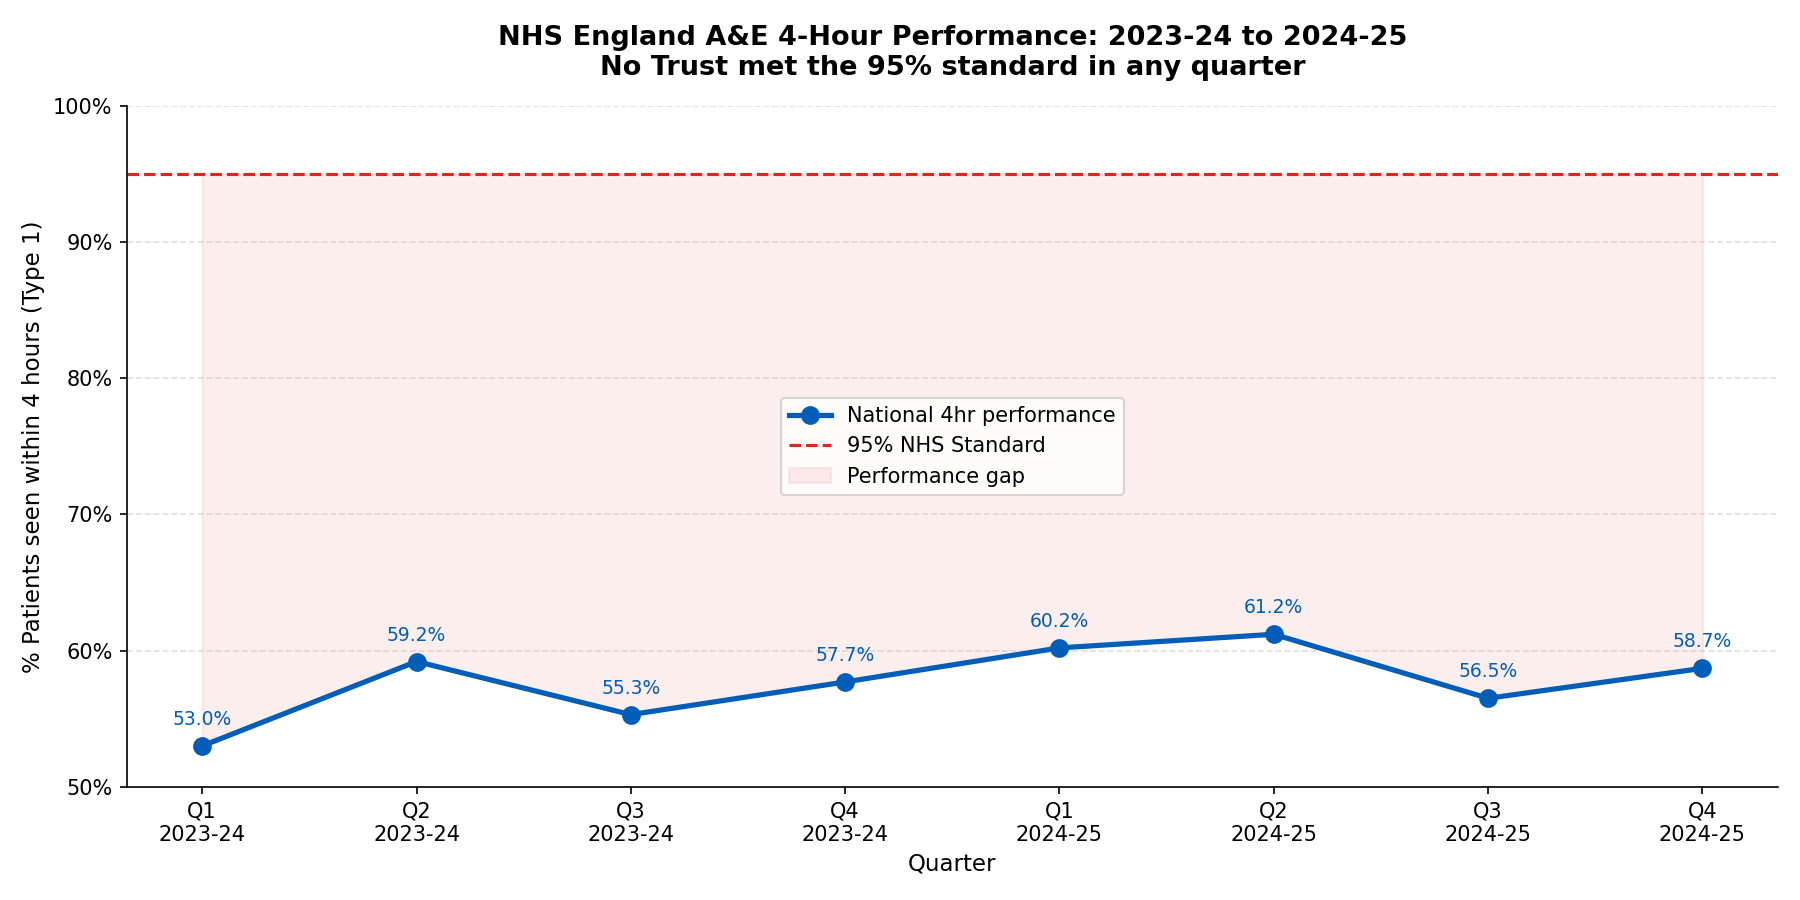
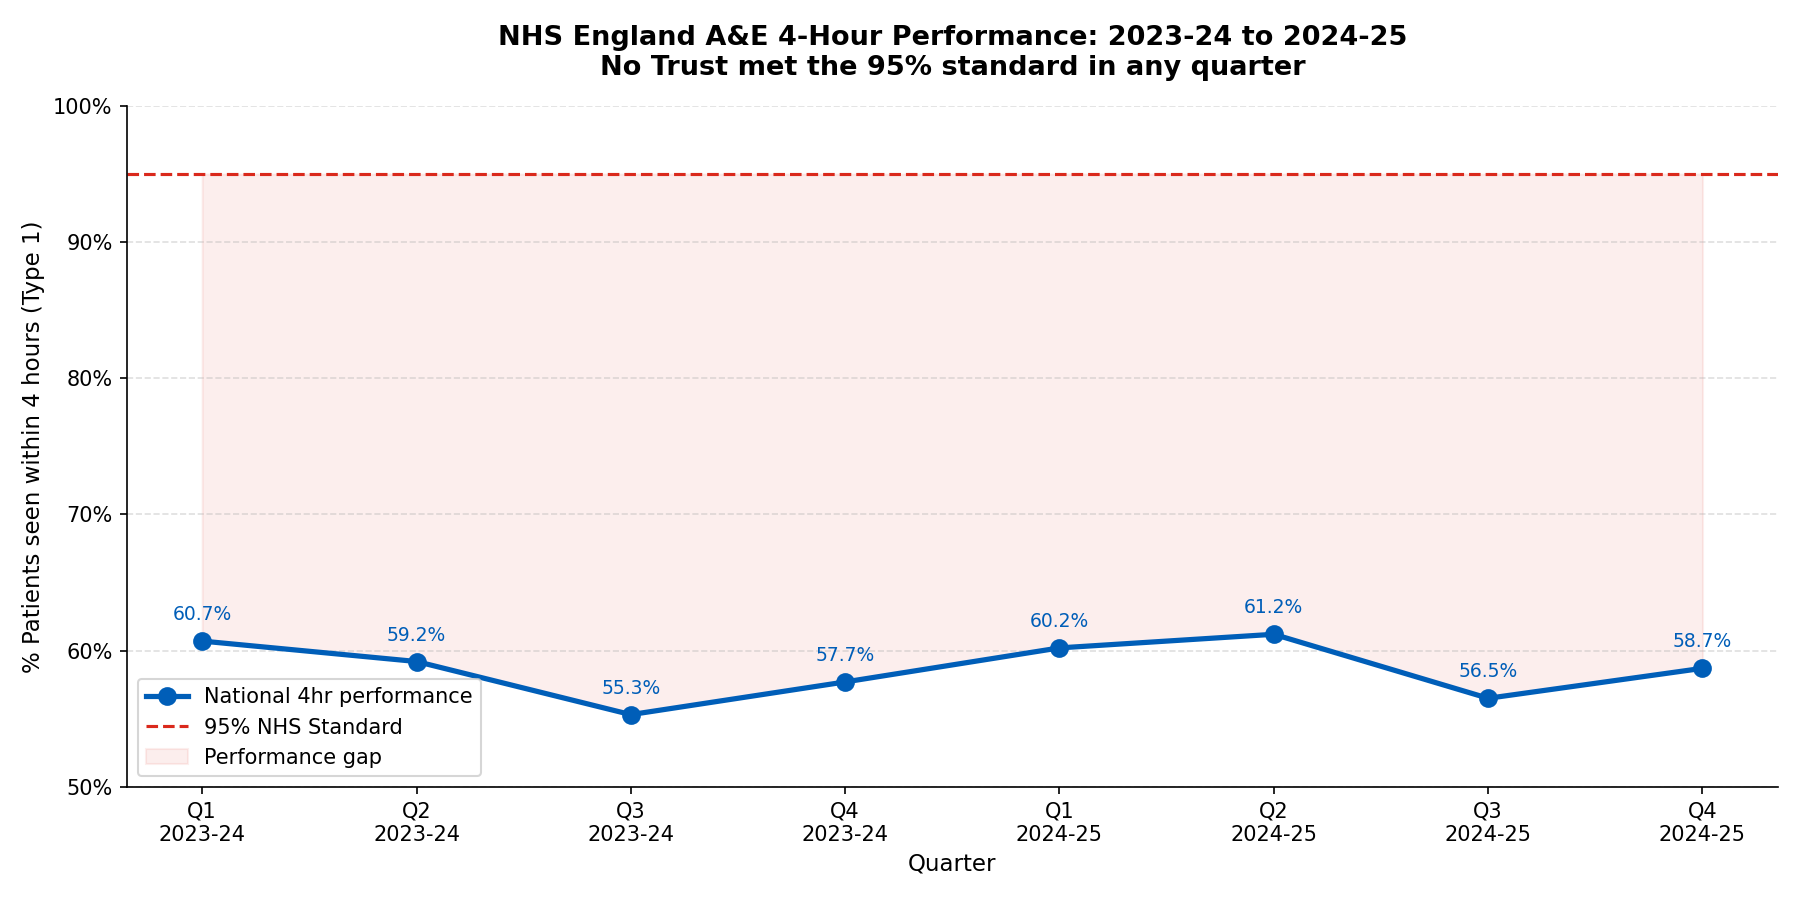
Update code comments and regenerate charts with validated data

Changed region(s): [[0.0622, 0.7156, 0.28, 0.8711], [0.4356, 0.4356, 0.6222, 0.56], [0.0933, 0.6533, 0.1244, 0.7156]]

diff --git a/python/analyse.py b/python/analyse.py
@@ -6,20 +6,8 @@ from sqlalchemy import create_engine
 import urllib
 import os
 
-"""
-================================================================
-Project : NHS A&E Performance Analysis (2023-25)
-File    : load_data.py
-Author  : Vinay Reddy Thudi
-Date    : May 2026
-
-Purpose : Loads 8 quarterly NHS England A&E XLS files into
-          SQL Server. Auto-detects header rows, standardises
-          column names, and handles file format variations.
-
-Output  : dbo.ae_raw (SQL Server - nhs_ae_analysis)
-================================================================
-"""
+# pulls from the same ae_unified table as Power BI
+# so the numbers should match exactly
 
 OUTPUT_FOLDER = r"C:\Users\zainv\OneDrive\Desktop\NHS Datasets\nhs-ae-performance-analysis\python\charts"
 os.makedirs(OUTPUT_FOLDER, exist_ok=True)
@@ -32,15 +20,8 @@ params = urllib.parse.quote_plus(
 )
 engine = create_engine(f"mssql+pyodbc:///?odbc_connect={params}")
 
-# -------------------------------------------------------
-# Pull unified data from SQL
-# -------------------------------------------------------
 df = pd.read_sql("SELECT * FROM dbo.ae_unified", engine)
 
-print(f"Rows loaded: {len(df)}")
-print(f"Columns: {list(df.columns)}")
-
-# Convert numeric columns - must happen before any calculations
 numeric_cols = [
     "type1_attendances", "type1_over_4hr", "type1_within_4hr",
     "type2_attendances", "type3_attendances", "total_attendances",
@@ -51,33 +32,13 @@ for col in numeric_cols:
     if col in df.columns:
         df[col] = pd.to_numeric(df[col], errors="coerce")
 
-print("Numeric conversion complete.")
-
-# -------------------------------------------------------
-# Calculate 4hr performance where not already present
-# -------------------------------------------------------
 t1 = pd.to_numeric(df["type1_attendances"], errors="coerce")
 t1_over = pd.to_numeric(df["type1_over_4hr"], errors="coerce")
-
-print(f"t1 dtype: {t1.dtype}")
-print(f"t1_over dtype: {t1_over.dtype}")
-print(f"t1 sample: {t1.head()}")
-print(f"t1_over sample: {t1_over.head()}")
-
-diff = t1 - t1_over
-print(f"diff dtype: {diff.dtype}")
-print(f"diff sample: {diff.head()}")
-
-result = diff / t1.replace(0, float('nan')) * 100
+result = (t1 - t1_over) / t1.replace(0, float("nan")) * 100
 result = pd.to_numeric(result, errors="coerce")
-print(f"result dtype: {result.dtype}")
-
 df["pct_within_4hr_calc"] = result.round(1)
 df["performance"] = df["pct_within_4hr_calc"]
 
-# -------------------------------------------------------
-# Sort order for quarters
-# -------------------------------------------------------
 quarter_order = {
     ("2023-24", "Q1"): 1,
     ("2023-24", "Q2"): 2,
@@ -94,9 +55,6 @@ df["sort_order"] = df.apply(
     axis=1
 )
 
-df["quarter_display"] = df["financial_year"] + " " + df["quarter_label"]
-
-# Clean display labels
 label_map = {
     "2023-24 Q1": "Q1\n2023-24",
     "2023-24 Q2": "Q2\n2023-24",
@@ -107,22 +65,30 @@ label_map = {
     "2024-25 Q3 2024-25": "Q3\n2024-25",
     "2024-25 Q4 2024-25": "Q4\n2024-25",
 }
-df["quarter_display"] = df["quarter_display"].map(label_map)
+df["quarter_display"] = (df["financial_year"] + " " + df["quarter_label"]).map(label_map)
 
 # -------------------------------------------------------
-# Chart 1: National 4hr performance trend over 8 quarters
+# Chart 1: National 4hr performance trend
 # -------------------------------------------------------
-print("\nBuilding Chart 1 - National trend...")
+print("Building Chart 1 - National trend...")
 
 quarterly = (
-    df[df["type1_attendances"] > 0]
+    df[
+        (df["type1_attendances"] > 0) &
+        (df["type1_over_4hr"].notna()) &
+        (df["sort_order"] != 99)
+    ]
     .groupby(["sort_order", "quarter_display"])
-    .apply(lambda g: pd.Series({
-        "national_pct": (
-            (g["type1_attendances"] - g["type1_over_4hr"]).sum()
-            / g["type1_attendances"].sum() * 100
-        ).round(1)
-    }))
+    .apply(
+        lambda g: pd.Series({
+            "national_pct": round(
+                (g["type1_attendances"] - g["type1_over_4hr"]).sum()
+                / g["type1_attendances"].sum() * 100,
+                1
+            )
+        }),
+        include_groups=False
+    )
     .reset_index()
     .sort_values("sort_order")
     .dropna()
@@ -140,11 +106,11 @@ ax.plot(
     label="National 4hr performance"
 )
 
-# 95% target line
-ax.axhline(y=95, color="#DA291C", linewidth=1.5,
-           linestyle="--", label="95% NHS Standard")
+ax.axhline(
+    y=95, color="#DA291C", linewidth=1.5,
+    linestyle="--", label="95% NHS Standard"
+)
 
-# Shade the gap
 ax.fill_between(
     quarterly["quarter_display"],
     quarterly["national_pct"],
@@ -184,47 +150,73 @@ plt.close()
 print("  Saved: 01_national_trend.png")
 
 # -------------------------------------------------------
-# Chart 2: Regional average performance comparison
+# Chart 2: Regional performance - deduplicated and clean
 # -------------------------------------------------------
 print("Building Chart 2 - Regional comparison...")
 
-# Standardise region names - quarterly and monthly CSVs store them differently
-df["region_clean"] = (
-    df["region"]
+# filter to one row per Trust per quarter - monthly and quarterly
+# overlap for Q1-Q2 2024-25 so we only use quarterly XLS for those
+
+regional_df = df[
+    (df["type1_attendances"] > 0) &
+    (df["type1_over_4hr"].notna()) &
+    (df["is_primary_source"] == 1) &
+    (df["region"].notna()) &
+    (~df["region"].str.upper().str.contains("TOTAL", na=False))
+].copy()
+
+# Clean region names to match Power BI
+regional_df["region_clean"] = (
+    regional_df["region"]
     .str.strip()
-    .str.upper()
-    .str.replace("NHS ENGLAND ", "", regex=False)
-    .str.replace("NHS ", "", regex=False)
-    .str.title()
-    .str.strip()
+    .str.replace(r"\s+", " ", regex=True)
 )
 
+# some rows have region variants like "NHS ENGLAND MIDLANDS" in caps
+# from the monthly CSV - just use the 7 clean names from the quarterly files
+
+valid_regions = [
+    "NHS England East Of England",
+    "NHS England London",
+    "NHS England Midlands",
+    "NHS England North East And Yorkshire",
+    "NHS England North West",
+    "NHS England South East",
+    "NHS England South West",
+]
+
+regional_df = regional_df[regional_df["region_clean"].isin(valid_regions)]
+
 regional = (
-    df[
-        (df["type1_attendances"] > 0) &
-        (df["type1_over_4hr"].notna()) &
-        (df["region_clean"].notna()) &
-        (~df["region_clean"].isin(["Total", "Nan", ""]))
-    ]
+    regional_df
     .groupby("region_clean")
-    .apply(lambda g: pd.Series({
-        "avg_pct": (
-            (g["type1_attendances"] - g["type1_over_4hr"]).sum()
-            / g["type1_attendances"].sum() * 100
-        ).round(1)
-    }))
+    .apply(
+        lambda g: pd.Series({
+            "avg_pct": round(
+                (g["type1_attendances"] - g["type1_over_4hr"]).sum()
+                / g["type1_attendances"].sum() * 100,
+                1
+            )
+        }),
+        include_groups=False
+    )
     .reset_index()
     .sort_values("avg_pct", ascending=True)
     .dropna()
 )
 
-# Shorten region labels
-regional["region_short"] = regional["region_clean"]
+regional["region_short"] = (
+    regional["region_clean"]
+    .str.replace("NHS England ", "", regex=False)
+    .str.strip()
+)
 
 fig, ax = plt.subplots(figsize=(11, 6))
 
-colors = ["#DA291C" if v < 60 else "#FFB81C" if v < 65 else "#009639"
-          for v in regional["avg_pct"]]
+colors = [
+    "#DA291C" if v < 58 else "#FFB81C" if v < 62 else "#009639"
+    for v in regional["avg_pct"]
+]
 
 bars = ax.barh(
     regional["region_short"],
@@ -234,12 +226,15 @@ bars = ax.barh(
     height=0.6
 )
 
-ax.axvline(x=95, color="#DA291C", linewidth=1.5,
-           linestyle="--", label="95% NHS Standard", zorder=5)
+ax.axvline(
+    x=95, color="#DA291C", linewidth=1.5,
+    linestyle="--", label="95% NHS Standard", zorder=5
+)
 
 for bar, val in zip(bars, regional["avg_pct"]):
     ax.text(
-        val + 0.3, bar.get_y() + bar.get_height() / 2,
+        val + 0.3,
+        bar.get_y() + bar.get_height() / 2,
         f"{val:.1f}%",
         va="center", ha="left", fontsize=10
     )
@@ -262,20 +257,22 @@ plt.close()
 print("  Saved: 02_regional_comparison.png")
 
 # -------------------------------------------------------
-# Chart 3: 12-hour DTA waits trend - national total
+# sticking to quarterly XLS here so all 6 bars represent the same
+# data collection method - mixing in monthly CSV would distort the trend
 # -------------------------------------------------------
 print("Building Chart 3 - 12hr DTA trend...")
 
 dta_trend = (
-    df[df["dta_12hr_plus"].notna()]
+    df[
+        (df["dta_12hr_plus"].notna()) &
+        (df["data_source"] == "quarterly_xls")
+    ]
     .groupby(["sort_order", "quarter_display"])
     .agg(total_12hr=("dta_12hr_plus", "sum"))
     .reset_index()
     .sort_values("sort_order")
+    .dropna()
 )
-
-# Only use first 6 quarters (quarterly XLS - comparable data)
-dta_trend = dta_trend[dta_trend["sort_order"] <= 6]
 
 fig, ax = plt.subplots(figsize=(12, 6))
 
@@ -292,7 +289,8 @@ for _, row in dta_trend.iterrows():
         row["quarter_display"],
         row["total_12hr"] + 1000,
         f"{int(row['total_12hr']):,}",
-        ha="center", va="bottom", fontsize=10, color="#005EB8"
+        ha="center", va="bottom",
+        fontsize=10, color="#005EB8"
     )
 
 ax.set_title(
@@ -314,4 +312,4 @@ plt.close()
 print("  Saved: 03_dta_12hr_trend.png")
 
 print("\nAll charts saved to:", OUTPUT_FOLDER)
-print("\nDone.")
+print("Done.")

diff --git a/python/load_data.py b/python/load_data.py
@@ -3,9 +3,6 @@ from sqlalchemy import create_engine
 import os
 import urllib
 
-# -------------------------------------------------------
-# NHS A&E Data Loader - Final Version
-# -------------------------------------------------------
 
 DATA_FOLDER = r"C:\Users\zainv\OneDrive\Desktop\NHS Datasets"
 
@@ -94,7 +91,7 @@ for filename in files:
     header_row = find_header_row(raw)
     print(f"  Header at row {header_row}, using engine: {eng}")
 
-    # Step 3 - re-read from header row
+    # Step 3 - re read from header row
     engines = ["openpyxl", "xlrd"] if filepath.endswith(".xlsx") else ["xlrd", "openpyxl"]
     df = None
     for e in engines:
@@ -136,7 +133,7 @@ if not all_quarters:
     print("\nNo data loaded.")
 else:
     # Align columns across all quarters before concat
-    # Some quarters may have slightly different columns - fill missing with NaN
+    # Some quarters might have slightly different columns - fill missing values with NaN
     all_cols = set()
     for df in all_quarters:
         all_cols.update(df.columns)

diff --git a/python/load_missing_quarters.py b/python/load_missing_quarters.py
@@ -4,7 +4,7 @@ import urllib
 
 # -------------------------------------------------------
 # Load Q3 and Q4 2024-25 from monthly CSVs
-# Since the quarterly XLS files are corrupted, we use the
+# Since the quarterly XLS files are corrupted, I used
 # individual monthly CSVs and aggregate them to quarter level
 # -------------------------------------------------------
 
@@ -20,7 +20,7 @@ engine = create_engine(f"mssql+pyodbc:///?odbc_connect={params}")
 
 # Q3 2024-25 = October, November, December 2024
 # Q4 2024-25 = January, February, March 2025
-# Update these filenames to match exactly what you downloaded
+
 quarter_files = {
     "Q3 2024-25": [
         "Monthly-AE-October-2024.csv",
